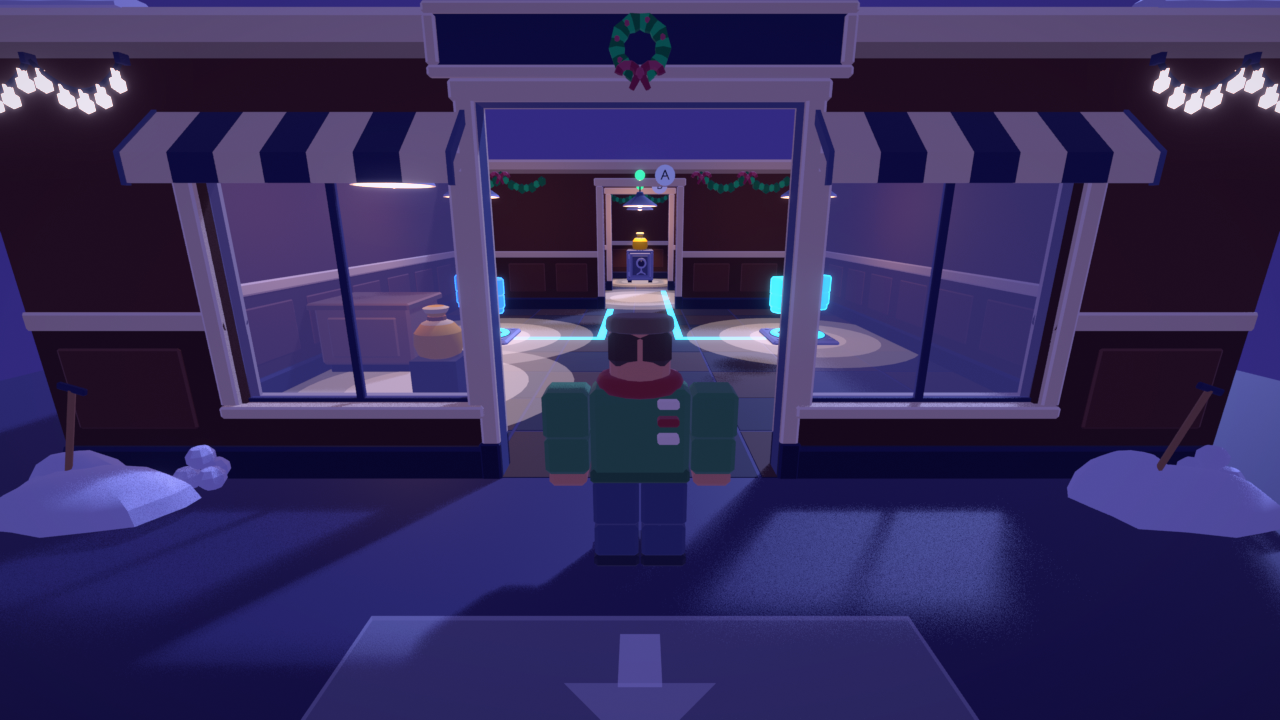
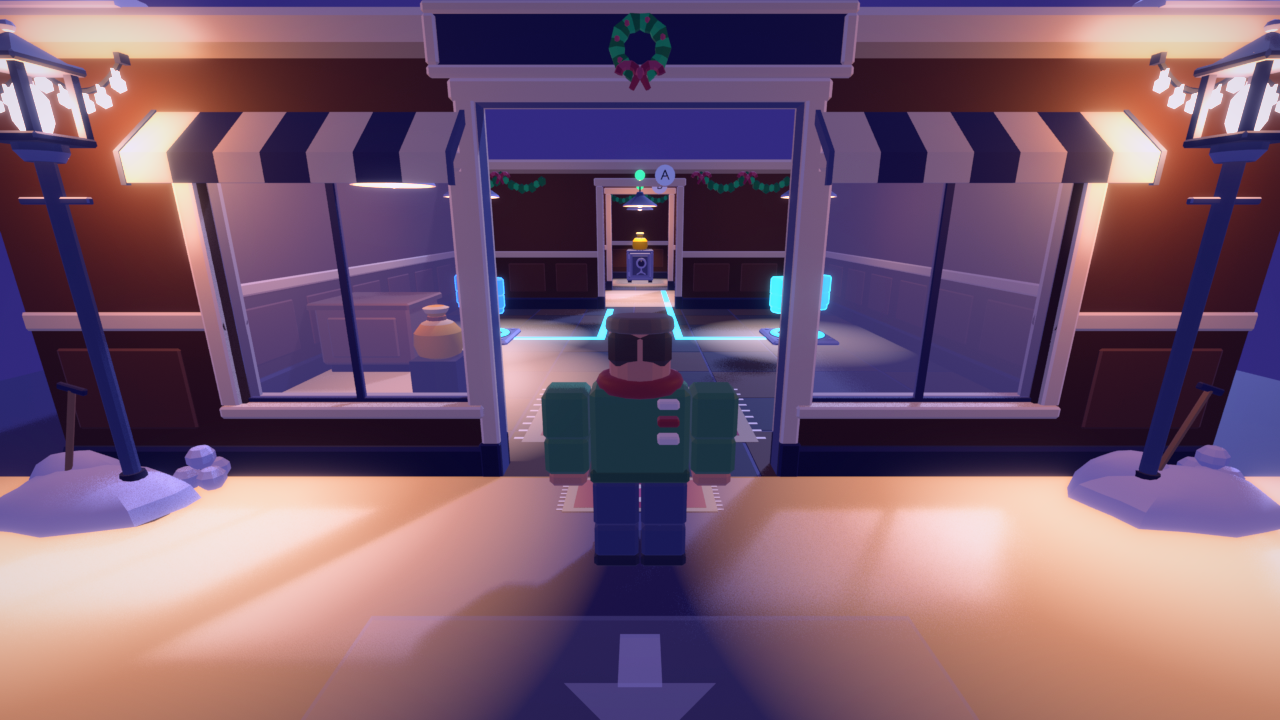
Renders and grading: G1a/G1b/G2/G3 and new L3/L4/L6 frames graded, all six levels re-rendered, pools before/after; LEVELS §9 self-critique, FEEDBACK_TABLE status, STYLE_BIBLE §15 rules, PROJECT_STATE
Claude-Session: https://claude.ai/code/session_01QMSuPfsKra1qjqHBWxnEoR

diff --git a/docs/audit/LEVELS.md b/docs/audit/LEVELS.md
@@ -395,3 +395,43 @@ Rendered with `python3 tools/blender/level_shots.py --golden --samples 32` (G1a,
 - **The pools read as flat stamped discs** in Blender; five rings soften the step but a radial-gradient image (roblox_quality §1.2 trick 1) would look better in the engine. The street lamps stand in the corner snow piles (a lamp in a drift is fine; check the base in Studio).
 - **G3:** the trophies peek over your van's roof but read small at 22 studs; your van is the bay-1 teal (the P1 crew family), the coolest big shape in the frame; the floor checker stays dark and cool; no falling snow inside (the client turns it off indoors, so only the drifts and the street under the door carry the snow). The bay paints are per bay: the code has no bay owner, so "your van in your crew colour" is bay 1 in the P1 family, not your seat's colour.
 - **[verify in Studio]** the warm pools' brightness against recipe A at quality 1-3 (voxel lighting smears the street lamps), the van paint under the moon key, the NEXT card at 48 px on a phone (in the G3 render it is about 90 x 60 px at 1280 x 720), the garage's greybox-to-kit switch (the kit dresses in the background once `KitService` is ready), and engine smoke section 8 (written, not run: the engine was busy).
+
+## 9. Levels and world feedback: the warm pass on L3, L4 and L6, soft pools, world-side feedback (2026-11-12)
+
+Rendered with `python3 tools/blender/level_shots.py --golden --samples 32` (G1a, G1b, G2 and the new level frames), `--garage --samples 32` (G3) and `--samples 12 --out docs/audit/levels/after` (all six levels, seven shots each, and the contact sheet); R2: Blender, not Studio. Graded by `tools/blender/frame_grade.py` into [`levels/golden/grades.json`](levels/golden/grades.json) (warm share = sRGB R - B >= 8 and luma >= 0.06). The pools before / after: [`levels/golden/pools_before_after.png`](levels/golden/pools_before_after.png).
+
+**What changed.**
+- **Warm pass on L3, L4, L6** (the L1/L2/L5 recipe, `LevelDress`): street lamps flanking each storefront; rugs in the pools (entrance, L3's grid room and under the register, L4's Gus post and the night deposit, L6's lobby, hall runner and scale room) and the doormats; an L3 grid-room lamp. L6: street lamps at the bank front, in the service alley and in both side alleys; a warm gold `accent` lamp over the vault's coins (the Bank's room lamps are green); the scale room's lamp is now an off-axis pair at (+-6, -39), so no fixture hangs between you and the vault row or the gold. Light budget per view held (unit specs per level: <= 9 lit, <= 2 shadowed; every daily vault has room lamps, a lamp and a letter per plate).
+- **L6 "need all 4"**: `KitPlan.vaultRows` puts a lettered lamp per plate on the vault frame's scale-room face (A-D from your left, the gap doubled across the door lamp), dim Bulb Warm until its plate is held, then the presser's hue (WorldView, from the plate attributes), and a "VAULT n/4" count over the row (Go Green at 4/4). The daily need-all doors (DV02, DV07, DV11, DV12) get rows too.
+- **L6 lobby**: the Bank's long counters are `TellerCounter_8x4` (marble top, glass screen) fitted to the sim counters (no sim change; scaled to the 2-deep box).
+- **L6 cables**: the four vault trunks are ordered C, B, A, D west to east so no plate's cross run crosses another trunk (unit spec: no two cables touch); B's laser cable runs to the grid's west post.
+- **L6 alley**: lot walls past the street front are outdoors (`KitPlan.buildingBox` = `BackdropPlan.levelSite`): no interior floor tiles in the alleys, the client's snow falls there, and street lamps light them. The fence is still the 12-tall brick wall (a low fence piece is a new kit asset: not done).
+- **Hide spots / L4's plate under the coat rack**: the letter of a plate hidden in a hide hangs on a disc over the hide (L4 B; L6 A, B, C, D), and a soft Warm Marble outline of the hide fades in within 6 studs (FEEDBACK_TABLE "Hide spot"; not visible in these renders: nobody stands within 6 studs).
+- **Soft pools**: one smooth radial falloff instead of stepped rings, `opacity = peak x (1 - (r/R)^2)`; in the engine the uploaded gradient (`EH_FX_Pool`, Decal 83512391533289, resolved at boot by `UiImages`) in one ImageLabel, until then 10 soft discs on the same curve. Every pool is cut at the wall lines it would cross (`KitPlan.poolRect`): **the golden pass's street pools were shining through the shop front onto the roofless interior** (visible from the diorama camera); now they stop at the wall face. A smooth edge alone lost warm share (G1a 47 -> 36 %), so the curve is gentler, 1.2x the old mean brightness, and room / street pools are 20 / 24 studs.
+- **World feedback** (client only, `Config.WorldFx`, maths in `Shared/Heist/WorldFx`): plate sink 0.15 on a spring with a ~0.1 s overshoot; door dust puff and slide overshoot; three-layer lasers (ink sleeve, body, core) and the re-arm whine as the flicker starts; loot glint every 2 s, squash on grab, hop on drop; your own character carries loot in both hands in front of the chest (the clones' carry clip on your arms); the bank moment (<= 24 coins, van bounce, "+$100!" pop, `world.onBank(amount, worldPos)`); haptics on plate / grab / bank on phones only. None of these show in stills.
+
+| Frame | Warm share (before -> now) | Median luma | Brightest-element check | Score (before -> now) |
+|---|---|---|---|---|
+| G1a diorama | 47.4 -> **44.7 %** | 0.387 -> 0.371 | bulbs and the plate pool own the brightest 1 % (4.4 / 3.7 %); zone p95 0.49 (was 0.45: the wider street pools reach it) | 7 -> **7.5** |
+| G1b classic | 25.3 -> **26.0 %** | 0.240 | lanterns 23 % of the brightest 1 %, van 0 % | 7 -> **7** |
+| G2 party wide | 21.5 -> **21.4 %** | 0.266 | cash p95 0.90, clones brightest | 6.5 -> **6.5** |
+| G3 garage | 30.8 -> **30.5 %** | 0.154 | the NEXT card (board p95 0.48) over your van (0.39) | 6.5 -> **6.5** |
+| L3 diorama (new) | **45.9 %** | 0.371 | as G1a: bulbs and plate A | 3 -> **6** |
+| L3 grid (new) | **29.2 %** | 0.208 | the register's cash (p95 0.92), plate B 0.88 | **7** |
+| L4 diorama (new) | **45.9 %** | 0.371 | as G1a | 4 -> **6** |
+| L4 back room (new) | **44.4 %** | 0.202 | plate B under the coat rack owns 11.5 % of the brightest 1 %; Gus's amber cone is most of the warm area | **6.5** |
+| L6 diorama (new) | **30.7 %** | 0.323 | lamps; the zone p95 0.31 | 4 -> **6.5** |
+| L6 classic (new) | **18.8 %** | 0.228 | van 0 % of the brightest 1 % | **6** |
+| L6 vault (new, VAULT 4/4) | **8.9 %** | 0.258 | the gold (p95 0.86) is the brightest group | **6** |
+
+(L3 / L4 / L6 "before" scores are §2's audit scores of the whole level, not of these frames.)
+
+**Self-critique (honest).**
+- **L3 and L4 still open on L1's picture.** Their diorama frames grade exactly like L1's (45.9 % both): from the spawn every Corner Shop level is the same storefront, now warmer. P1-1 (each level's own first room) needs sim level data; the level-own frames (L3 grid, L4 back room) show what is different, but a thumbnail of the spawn does not.
+- **G1a lost 2.7 points of warm share.** That is the honest price of not lighting the interior through the shop front (the golden pass's 47.4 % counted the leak); the pavement pools are smoother, wider and brighter at the centre. The cut at the wall face leaves a straight edge on the pavement at the facade's foot (reads as the wall's shadow line; check in Studio).
+- **The vault frame is cold (8.9 %).** Steel door, navy walls and the green Bank room lamps; one gold accent (the budget allows one next to the scale-room pair) and the hero spot light only the gold and the coins. The frame's bottom third is the arch wall top. In the classic camera at eye height the vault's own hero lamp fixture still hangs over the doorway's top.
+- **The "VAULT n/4" count** is a BillboardGui over the wall top (in Blender, flat text): check its size at 48 px on a phone and that it never covers the row; the row's letters (0.95-stud discs) need a phone look at play distance.
+- **L6 alley**: reads as a lit, snowy service alley in the plan and street shots, but the lot fence is still a 12-tall brick wall (a low fence piece is a new kit asset). The side-alley pools are cut to 9-stud strips between the bank and the fence.
+- **Teller counters** are squashed to the sim's 2-deep counter box (the kit piece is 4 deep); the glass screen reads as a rail from above. A 4-deep sim counter would look better but is sim data.
+- **Not verified in the engine** (written, not run: engine smoke section 9): the soft pool canvas orientation (the pool part's Front face turned up: canvas right = +X, up = -Z), HapticEffect on a phone, the live carry clip on your own arms, the van bounce on the kit van, the dust and coin textures (built-in Roblox particles until art exists).
+- **Sound**: PlateHum, LaserWhine, LootTinkle and VanToot are empty cues (docs/AUDIO.md "Missing (world feedback)").

diff --git a/docs/FEEDBACK_TABLE.md b/docs/FEEDBACK_TABLE.md
@@ -4,23 +4,23 @@ Every interactable has an **idle affordance**, visible from ≥ 12 studs, and **
 
 The **First time** column is the bigger first-time version of the feedback (premium G2), shown once per account.
 
-**Status** says what is in the game today (2026-11-12, place v28):
+**Status** says what is in the game today (2026-11-12, place v28; the levels and world feedback track's WorldView pass is marked "world track": client only, numbers in `Config.WorldFx`, maths in `Shared/Heist/WorldFx`):
 - **in:** exists in the game.
 - **part:** some channels exist.
 - **todo:** not built.
 
 | Object | Idle affordance | Visual on use | Sound (cue, ≥ 3 variations if repeated) | Motion | Haptic | First time | Status |
 |---|---|---|---|---|---|---|---|
-| **Plate** (lettered) | Bulb Warm glow at 50 %, slow breathe; letter on top; floor light pool | Floods in the presser's crew colour; a cable pulse runs to its door or laser | toy click + low hum while held | Sinks 0.15 studs, settles with a 0.1 s overshoot | yes | Plate ring flash + "Stay on it." | part (glow, letter, cable in; sink, haptic, toy click todo) |
-| **Door** | Lamp in the plate's letter; red when shut | Lamp turns green; dust puff | tin rumble | Pocket-slides sideways with overshoot | — | Camera eases 0.3 s toward the door | part (slide, lamp in; dust, overshoot todo) |
-| **Laser** | Three-layer beam (ink, body, white-hot core); flicker 0.5 s before re-arm | Sparks; soot decal on the zapped clone | crackle; whine 0.5 s before re-arm | Clone shudders | — | "Zapped! Wait for the flicker." | part (sparks in; layers, flicker, whine, soot todo) |
-| **Loot** (cash, gold, gift) | Glint every 2 s; tinkle within 8 studs; goal sparkle | Pops into both hands | grab chime | Squash on grab; bob while carried; bounce on drop | yes | Finger pointer on GRAB | part (goal sparkle in; clones: carry pose with the loot between the hands, bobbing; your live character still carries it on the head; chime, squash todo) |
-| **Van / bank** | Glows when you carry loot; arrows point to it | 24-coin burst; "+$100!" flies to the loot meter; meter counts up | cha-ching + coin rain; the van honks | Van bounces | yes | Bigger burst, louder honk | part (glow and arrows in; burst, fly, honk todo) |
+| **Plate** (lettered) | Bulb Warm glow at 50 %, slow breathe; letter on top; floor light pool | Floods in the presser's crew colour; a cable pulse runs to its door or laser | toy click + low hum while held | Sinks 0.15 studs, settles with a 0.1 s overshoot | yes | Plate ring flash + "Stay on it." | part (glow, letter, cable in; world track: sink 0.15 on a spring with a ~0.1 s overshoot, haptic, hum cue `PlateHum` (empty id) in; toy click = PlatePress, a metal clunk until the owner's audio pass) |
+| **Door** | Lamp in the plate's letter; red when shut | Lamp turns green; dust puff | tin rumble | Pocket-slides sideways with overshoot | — | Camera eases 0.3 s toward the door | part (slide, lamp in; world track: dust puff at the sill and the slide overshoot in; tin rumble = DoorOpen; the first-time camera ease todo) |
+| **Laser** | Three-layer beam (ink, body, white-hot core); flicker 0.5 s before re-arm | Sparks; soot decal on the zapped clone | crackle; whine 0.5 s before re-arm | Clone shudders | — | "Zapped! Wait for the flicker." | part (sparks, flicker in; world track: three layers (ink sleeve, red body, white-hot core), whine cue `LaserWhine` (empty id) as the flicker starts in; soot on the zapped clone todo (clone track)) |
+| **Loot** (cash, gold, gift) | Glint every 2 s; tinkle within 8 studs; goal sparkle | Pops into both hands | grab chime | Squash on grab; bob while carried; bounce on drop | yes | Finger pointer on GRAB | part (goal sparkle in; clones: carry pose with the loot between the hands, bobbing; world track: your live character carries it in both hands in front of the chest, facing where you face, with the clones' carry clip; glint every 2 s, squash on grab, bounce on drop, haptic in; grab chime = Grab; tinkle cue `LootTinkle` (empty id)) |
+| **Van / bank** | Glows when you carry loot; arrows point to it | 24-coin burst; "+$100!" flies to the loot meter; meter counts up | cha-ching + coin rain; the van honks | Van bounces | yes | Bigger burst, louder honk | part (glow and arrows in; world track: 24-coin burst, van bounce, a "+$100!" world pop, haptic, `VanToot` cue (empty id) and `world.onBank(amount, worldPos)` in; the HUD's fly-to-meter is the UI track's) |
 | **REWIND button** | Breathes in sync with the plate pulse when it is the right move | Ring lock fills; press 0.92 → 1.04 → 1.0 | soft tick per breath; clunk on press | Screen-edge VHS wobble preview | yes | Finger pointer | part (label in; breathe, ring, pointer todo) |
 | **Rewind** | — | 66 ms freeze; path trails reel back; scanline bands | rewind whine; world muffled (800 Hz) | Camera holds, then snaps | yes | — | part (rewind 85 %; freeze, trails, muffle todo) |
 | **Clone print** | — | Builds up from the feet in 0.35 s; floor ring | clone arpeggio (sound logo) | — | — | "YOU, 10 SEC AGO" tag | in (feet-up build under a scan band, floor ring, 60 ms stagger) |
 | **Gus** | Boot prints of his next 2 s; key-ring jingle | "?" or "!" bubble pops | barks ("Hm?", "Hey!"); heartbeat on "?" | Head turns before body; lean in chase | yes on "!" | "That's Gus. Don't wake him." | part (mesh, beats, boot prints, flicker, nameplate, ?/! in; bark audio ids todo) |
-| **Hide spot** | Soft outline when within 6 studs | "HIDDEN" chip; you dim 30 % | felt rustle | Curtain or coat sways | — | "Hide here when Gus comes." | part (chip in; outline, sway todo) |
+| **Hide spot** | Soft outline when within 6 studs | "HIDDEN" chip; you dim 30 % | felt rustle | Curtain or coat sways | — | "Hide here when Gus comes." | part (chip in; world track: soft outline within 6 studs and the letter of a plate hidden inside over the hide in; sway todo) |
 | **Till** (L5, time-locked) | Countdown on its face | Pops open; alarm light spins | till ding → alarm | Drawer slides out | yes | — | part (lock and countdown in) |
 | **Busted (you)** | — | Cone flashes red; BUSTED stamp | whistle + stamp | 66 ms freeze; camera eases to Gus | yes | One line of advice | part (stamp in; freeze, camera todo) |
 | **Busted (clone)** | — | Glitch slices; tape-ribbon burst (≤ 30 particles) | glitch crunch | Hands up | — | — | part (hands up, 3 glitch slices, ribbon burst 22 + 8 sparks in; glitch crunch todo) |

diff --git a/PROJECT_STATE.md b/PROJECT_STATE.md
@@ -198,3 +198,14 @@ _Last updated: 2026-11-12_
 - **Open:** the L1 cash sits on the axis behind the shut back-room door (sim data: move it off-axis, or the C1 objective beat); G2 stays cool under the navy Toy Shop atlas (owner palette call); the van roof still fills G1b's lower left (classic camera over the kerb, C0).
 - **Golden pass merged (integrator):** street lamps, warmer room lamps, rugs, van restyle (`Van_Paint`, dark roof), garage v1 (`LobbyPlan`, 8 bays, job board, trophy counter, kit dressing), `tools/blender/frame_grade.py`. Warm share (Blender): G1a 4 % → 47 %, G1b 3 % → 25 %, G2 3 % → 22 %, G3 31 %. Engine on v35: engine_smoke 0 failures (105 ok, incl. 8 garage checks), client_engine 42/0, clone_engine 0, kit_engine 0. **v35 Published.**
 - Open from the golden pass: L1 cash sits behind the back-room door (sim data; owner/design call: move it to x 6 or rely on the run-start objective beat); the van can't move (sim data); Toy Shop walls stay cool (palette call); garage bays don't know their owner; street-lamp pools render as hard stepped rings in Blender (soften); L3/L4/L6 still need the warm pass.
+
+## 2026-11-12: Levels and world feedback track (warm pass L3/L4/L6, soft pools, world-side feedback; PLAN_STEAM_PLUS §4.1 W5, §4.5, §7)
+- **Warm pass L3, L4, L6** (`LevelDress`): street lamps, rugs, an L3 grid-room lamp; L6 street lamps at the front and in the service / side alleys, a gold `accent` lamp kind over the vault coins, the scale-room lamp split into an off-axis pair (no fixture in front of the vault). Light budget per view held (unit specs per level and for every daily vault).
+- **L6:** "VAULT n/4" lettered lamp row on the vault frame (`KitPlan.vaultRows`, LevelBuilder; WorldView colours each lamp in its presser's hue and counts; daily need-all doors too); `TellerCounter_8x4` lobby counters; vault cable trunks ordered C B A D (no crossings); the alleys are outdoors (`KitPlan.buildingBox` = `BackdropPlan.levelSite`: no interior floor, snow falls). Plate C / WestStack not moved (sim data).
+- **Hide spots:** plate letters over hides with a plate inside (L4 B, L6 A-D); a soft outline within 6 studs (WorldView).
+- **Soft pools:** a radial gradient (`assets/ui/EH_FX_Pool.png`, Decal **83512391533289**, image id not resolved yet: UiImages resolves it at boot, `kit_upload.py --set-ui-image EH_FX_Pool <id>` records it) with 10 soft discs as the fallback; every pool cut at the walls it would cross (`KitPlan.poolRect`; the golden pass's street pools lit the interior through the shop front). Garage pools soft too. The first upload (Decal 109210182981793, exponent 1.5) is superseded.
+- **World feedback** (WorldView, `Config.WorldFx`, pure `Shared/Heist/WorldFx` + unit spec): plate spring sink with overshoot, door dust + slide overshoot, three-layer lasers + re-arm whine, loot glint / squash / hop, the live character carries loot in both hands (the clones' carry clip on your arms), the bank moment (<= 24 coins, van bounce, "+$100!" pop) and `world.onBank(amount, worldPos)` (defined only; this track did not touch HeistClient, so the UI track's BankFly is its only caller), haptics (HapticEffect) on plate / grab / bank on phones only, behind `Config.WorldFx.HAPTICS`, reduced motion (GuiService or `Setting_ReducedMotion`) and `Setting_Haptics` (a settings key the UI track can add). WorldView uses `Ui.textStroke`; the ui_kit_check stroke allowlist is empty.
+- **Audio:** PlateHum, LaserWhine, LootTinkle, VanToot added as empty cues (docs/AUDIO.md "Missing (world feedback)").
+- **Renders:** golden G1a 44.7 % warm (was 47.4: the interior leak is gone), G1b 26.0, G2 21.4, G3 30.5; new L3 diorama / grid, L4 diorama / back room, L6 diorama / classic / vault; all six levels re-rendered into `after/`. Scores and critique: LEVELS.md §9.
+- **Checks (local, all green):** compile, StyLua, Selene (both configs), pure_check, LihFolk scan, 4 places build + place_check 0, unit, sim, clips, hud_layout, glyph, ui_kit. Engine smoke section 9 (L6 row, lobby, soft pools, hidden-plate letters, onBank) **written, not run** (no cloud tests in this track).
+- **Open:** L3/L4 spawn frames are still L1's storefront (P1-1 needs sim data); L6 lot fence is still a 12-tall wall (a low fence kit piece); the vault frame is cold (8.9 %); verify in Studio: the pool canvas orientation, the VAULT count at 48 px, haptics on a phone, the live carry clip, the dust / coin built-in textures.

diff --git a/docs/STYLE_BIBLE.md b/docs/STYLE_BIBLE.md
@@ -374,7 +374,11 @@ Each bookmark is shot 3 times: **PC Quality 10**, **phone Automatic**, **phone q
 | Rule | Number |
 |---|---|
 | Warm share | Measured on the finished frame: sRGB R - B >= 8 and luma >= 0.06 (`tools/blender/frame_grade.py`). Target about 60 % (PLAN §3.1); G1a measures 47 %. Warm comes from light (room floods, street-lamp pools, the wall wash) and warm surfaces in the pools (rugs), never from tinting the moon, the sky or the shadows |
-| Street lamps | `StreetLamp` (11 tall, ink plinth, slim Vault Steel shade post, open lantern with a Bulb Warm Neon bulb, in `eh_palette.NEON`): one either side of a storefront on the pavement (`LevelDress.street`), a warm PointLight at the lantern (range 22, 1.6) and a 20-stud five-step pool. Visual only, 3+ studs from every crew seat |
+| Street lamps | `StreetLamp` (11 tall, ink plinth, slim Vault Steel shade post, open lantern with a Bulb Warm Neon bulb, in `eh_palette.NEON`): one either side of a storefront on the pavement (`LevelDress.street`), a warm PointLight at the lantern (range 22, 1.6) and a 24-stud soft pool (cut at the shop front). Visual only, 3+ studs from every crew seat |
 | Rugs | `Rug_8x6` (burgundy field, cream border, diamond, tassels; role `story`: comfort and storytelling props may use the Ribbon reds, never loot gold or a signal colour). Flat, 0.036 thick, between the floor tiles (+0.02) and the lamp pools (+0.06); only inside a light pool; never on a plate, door, laser, hide or the van zone |
 | The van | Getaway White stays the exit signal on the chevrons only. The body (`Van_Paint`, runtime colour) is a mid value (luma 0.25-0.55): caramel `#8C6448` in a heist, the bay paint in the garage; the roof is Vault Steel shade. The van is never the brightest thing in a frame |
 | Garage | Brick (Corner Shop atlas), roofless like the levels; one shadowed key on your bay, a work lamp washing the brick behind every van, aisle floods, the job board's NEXT card the only glowing surface (SurfaceGui LightInfluence 0); bay paints are mid values of the seat families (P1-P4) plus four neutrals; no default grey or white parts (engine smoke §8) |
+| Light pools (soft) | One smooth radial falloff, never stepped rings: opacity = peak x (1 - (r/R)^2) (`Config.Lighting.POOL_SOFT`, exponent 1; the uploaded `EH_FX_Pool` gradient in one ImageLabel, 10 soft discs on the same curve until it resolves). The peak is the kind's old area-weighted brightness x 1.2; room pools 20 studs, street pools 24. A pool stops at every wall line it would cross (`KitPlan.poolRect`): a street lamp never lights the shop's interior floor through the front wall |
+| Accent lamps | `LevelDress.accents`: a warm gold flood (`LAMP.accent`, 1.5, range 20, no shadows) that ignores the location colour. Only where the location colour would make the focal room cold (L6's vault: the Bank's room lamps are green) |
+| Need-all lamp row | Lettered Neon discs (0.95) on the door frame's face toward its plates, in letter order from the viewer's left, gap doubled across the door lamp; dim Bulb Warm idle (0.55), the presser's hue when held; the "VAULT n/4" count rides over the row (Bulb Warm, Go Green at n/n). Under the wall top (12), over the door (10) |
+| Outdoors (lots) | Walls past the street front's X extent are a lot's fence: no interior floor tiles there, the snow falls there, street lamps may stand there (L6's alleys) |
